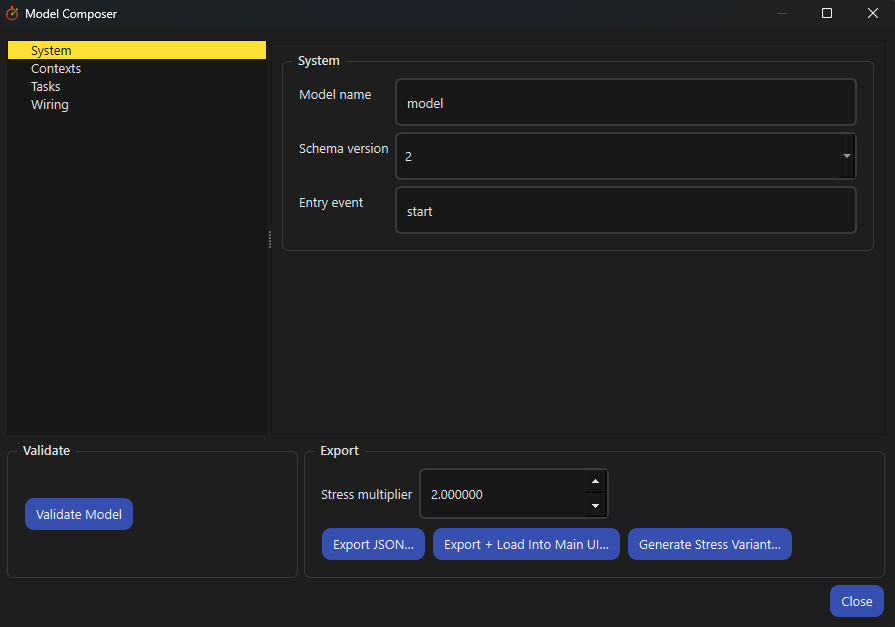
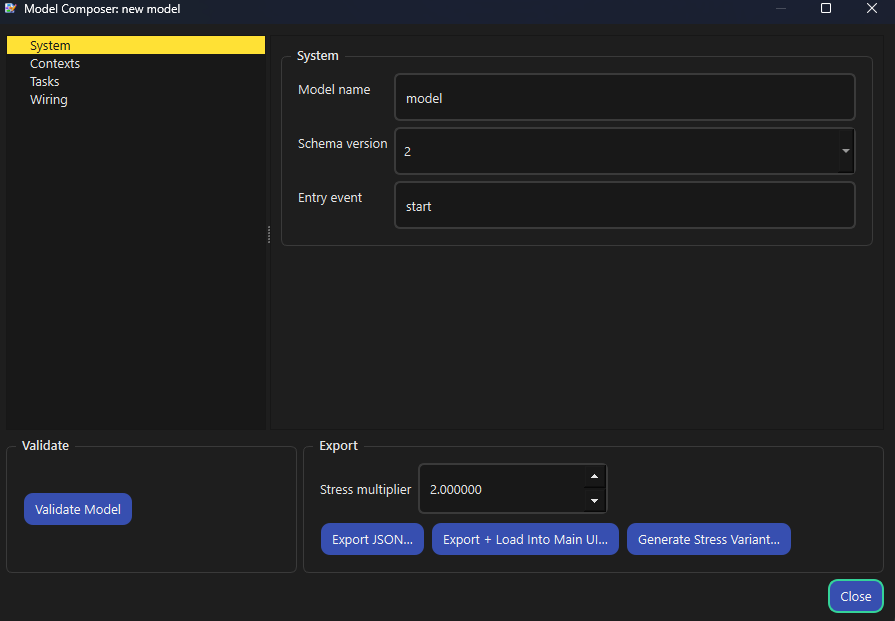
Show the new screenshots on the site with captions that match them
The Compose and Edit captures now show the mode in the composer's title; their alt text and captions say so, and the Edit figure describes the System pane with the task tree rather than the old Tasks pane capture.

diff --git a/docs/app.html b/docs/app.html
@@ -73,19 +73,20 @@
         </figure>
         <figure class="shot narrow">
           <div class="frame">
-            <img loading="lazy" src="assets/simquence-compose.png" alt="The Model Composer showing the System pane, with the model name, schema version and entry event, with the validate and export controls below">
+            <img loading="lazy" src="assets/simquence-compose.png" alt="The Model Composer titled new model, showing the System pane with the default model name, schema version and entry event, with the validate and export controls below">
           </div>
-          <figcaption><b>Writing a model from nothing.</b> The composer lists
-            the four parts of a model (System, Contexts, Tasks, Wiring) and you
-            work down them in order, then export plain JSON without writing
-            any.</figcaption>
+          <figcaption><b>Writing a model from nothing.</b> Compose opens a new
+            model and says so in its title. The composer lists the four parts
+            of a model (System, Contexts, Tasks, Wiring) and you work down them
+            in order, then export plain JSON without writing any.</figcaption>
         </figure>
         <figure class="shot narrow">
           <div class="frame">
-            <img loading="lazy" src="assets/simquence-edit.png" alt="The Model Composer showing the Tasks pane with one task selected, its context, lognormal distribution parameters, emitted event and category">
+            <img loading="lazy" src="assets/simquence-edit.png" alt="The Model Composer titled editing checkout, showing the checkout model's System pane with its entry event; its ten tasks are listed in the tree on the left">
           </div>
           <figcaption><b>Changing one thing, to see what it was worth.</b> Edit
-            opens the loaded model in the composer. Change one task's context,
+            opens the loaded model in the composer, named in its title, with
+            every task listed on the left. Change one task's context,
             distribution or emitted event, export, then run again on the same
             seed: the difference is the structure rather than the
             draw.</figcaption>
